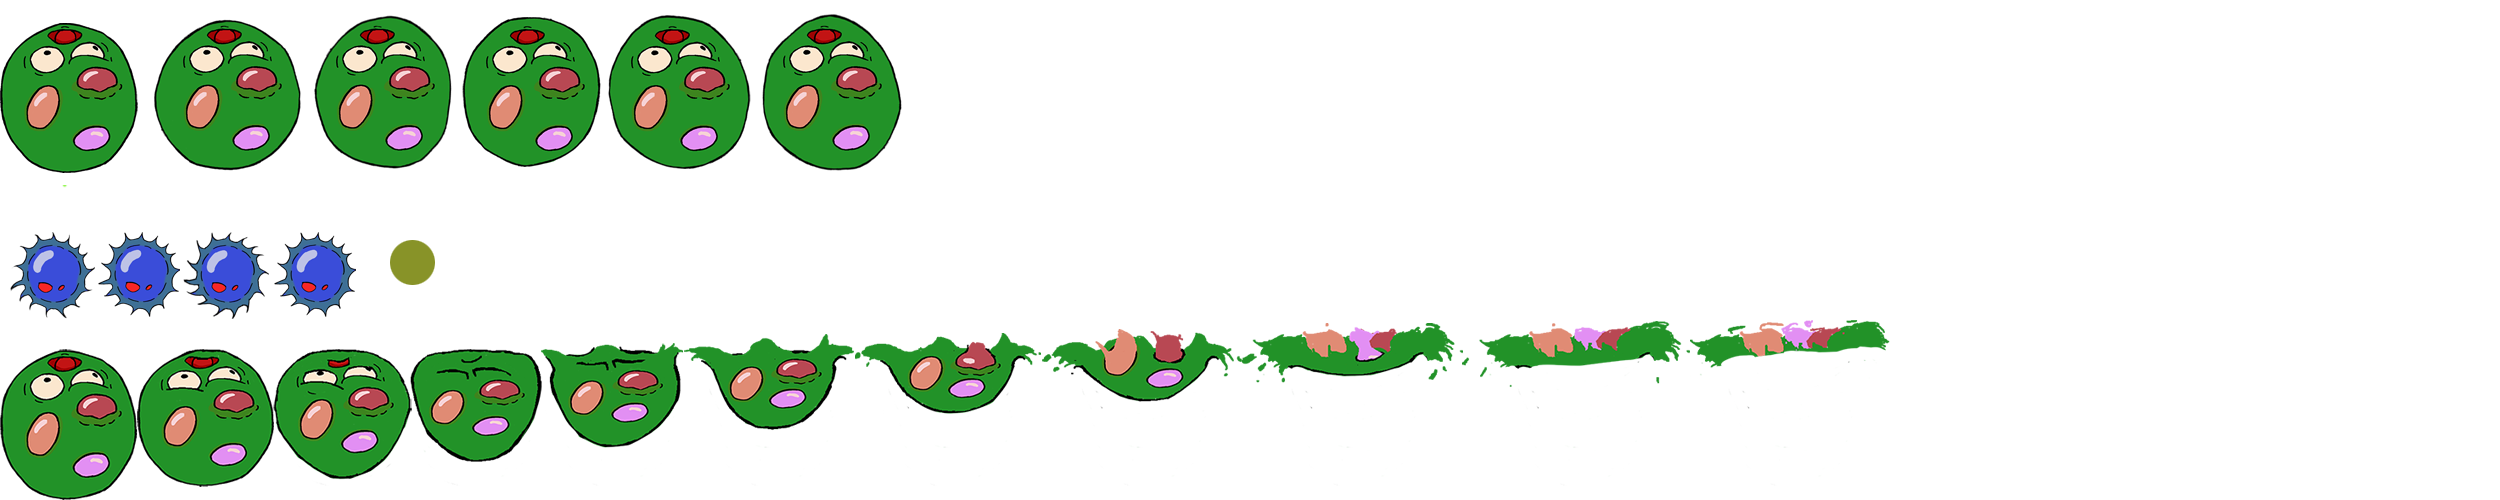
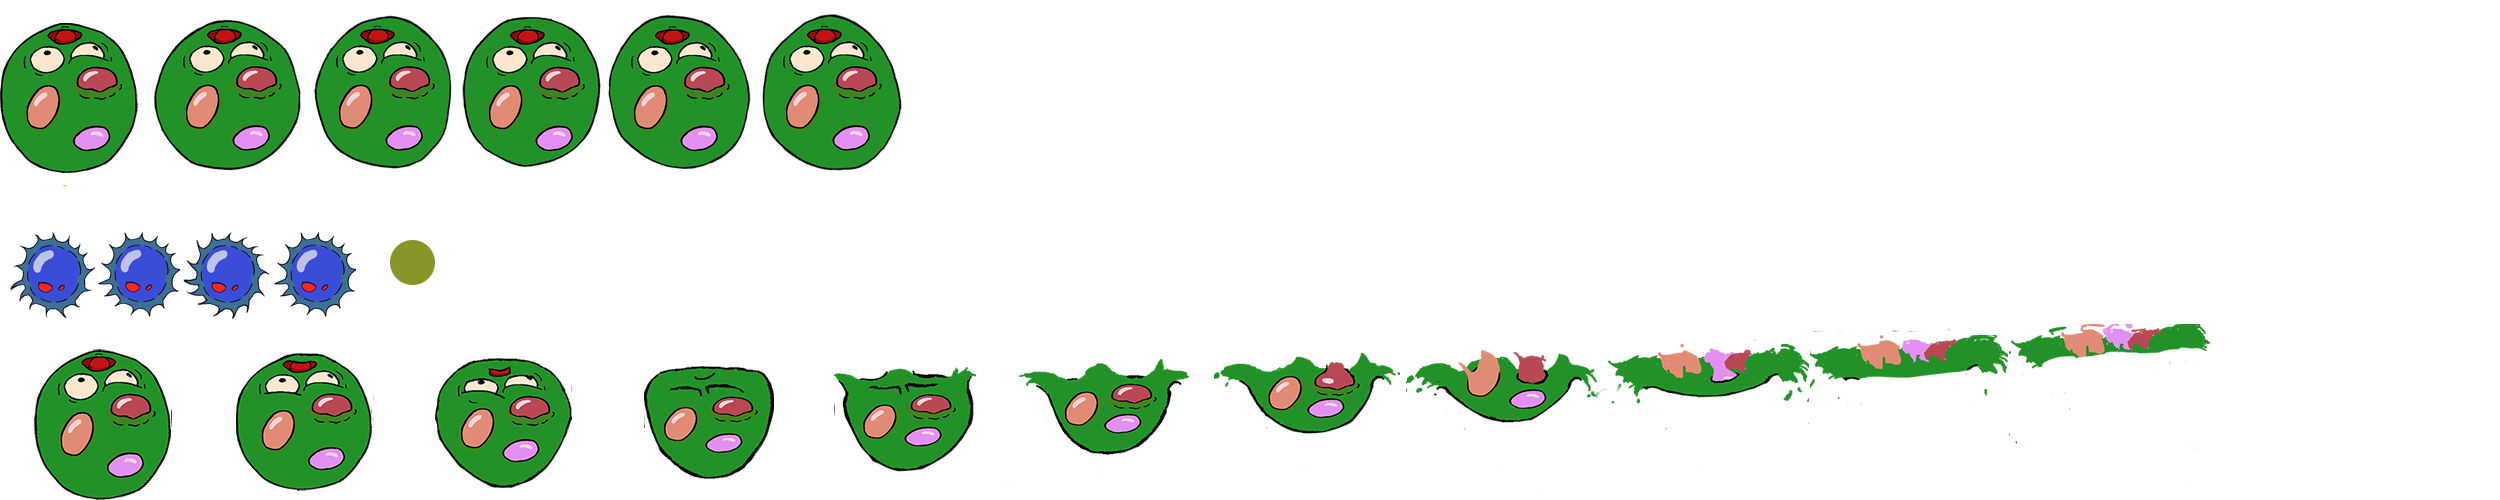
splash anim

Changed region(s): [[0.0, 0.63, 0.9048, 1.0]]

diff --git a/Dont-smile/ModulePlayer.cpp b/Dont-smile/ModulePlayer.cpp
@@ -36,7 +36,18 @@ ModulePlayer::ModulePlayer()
 	idle.PushBack({ 755, 14, 150, 158 });
 	idle.speed = 0.1f;
 
-
+	splash.PushBack({ 0,321,200,177 });
+	splash.PushBack({ 201,321,200,177 });
+	splash.PushBack({ 402,321,200,177 });
+	splash.PushBack({ 603,321,200,177 });
+	splash.PushBack({ 804,321,200,177 });
+	splash.PushBack({ 1005,321,200,177 });
+	splash.PushBack({ 1206,321,200,177 });
+	splash.PushBack({1407,321,200,177 });
+	splash.PushBack({ 1608,321,200,177 });
+	splash.PushBack({ 1809,321,200,177 });
+	splash.PushBack({ 2010,321,200,177 });
+	splash.speed = 0.3f;
 
 }
 
@@ -273,7 +284,7 @@ update_status ModulePlayer::Update()
 
 		if (App->input->keyboard[SDL_SCANCODE_A] == KEY_STATE::KEY_IDLE //check error
 			&& App->input->keyboard[SDL_SCANCODE_D] == KEY_STATE::KEY_IDLE && !App->level1->first_animation) {
-			current_animation = &idle;			
+						
 		}
 
 

diff --git a/Dont-smile/ModuleLevel1.cpp b/Dont-smile/ModuleLevel1.cpp
@@ -98,7 +98,7 @@ bool ModuleLevel1::Start()
 	spawn_distance = 900;
 
 	
-	last_spawn_sinus = SDL_GetTicks();//
+	last_spawn_sinus = SDL_GetTicks();
 	last_spawn_bacteria = SDL_GetTicks();
 	srand(time(NULL));
 	

diff --git a/Dont-smile/ModulePlayer.h b/Dont-smile/ModulePlayer.h
@@ -57,6 +57,7 @@ public:
 	Animation* current_animation = nullptr;
 
 	Animation idle;
+	Animation splash;
 
 	Particle dead_explosion;
 	Particle bomb_explosion;
